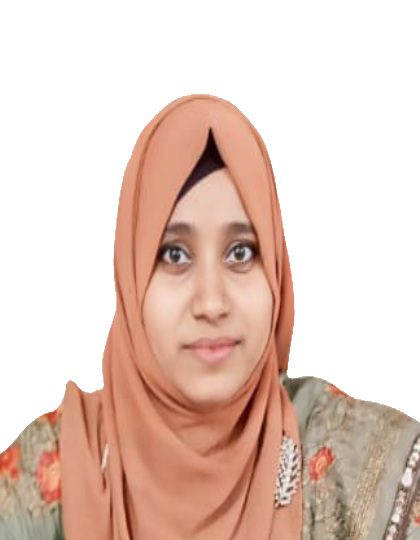
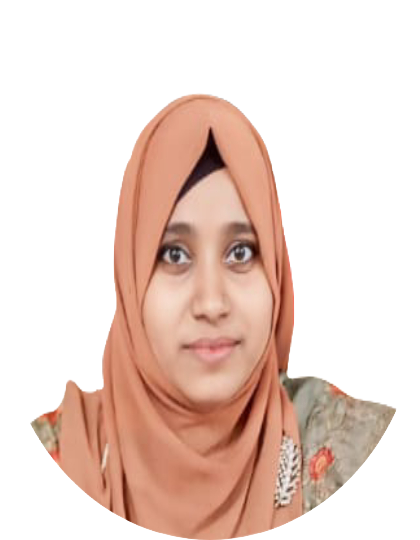
home section some edited

Changed region(s): [[0.5262, 0.7407, 1.0, 1.0], [0.0, 0.7704, 0.4643, 1.0]]

diff --git a/src/app/resume/page.jsx b/src/app/resume/page.jsx
@@ -150,7 +150,7 @@ const about= {
     animate={{opacity:1,
       transition: {delay:2.4, duration:0.4, ease: "easeIn"},
     }}
-    className="min-h-[80vh] flex items-center justify-center py-12 xl:py-16"
+    className="min-h-[80vh] flex items-center justify-center py-12"
     >
       <div className="container mx-auto">
         <Tabs 
@@ -164,23 +164,23 @@ const about= {
           </TabsList>
           <div className="min-h-[70vh] w-full">
                       {/* experience part */}
-            <TabsContent value="experience" className="w-full h-full">
+            <TabsContent value="experience" className="w-full h-full ">
               <div className="flex flex-col gap-[30px] text-center xl:text-left">
-                <h3 className="text-4xl font-bold">{experience.title}</h3>
-                <p className="max-w-[600px] text-gray-600 xl:mx-0">
+                <h3 className="text-4xl font-bold text-[#1C1B22]">{experience.title}</h3>
+                <p className="max-w-[600px] text-[#1C1B22] xl:mx-0 mx-auto">
                   {experience.description}</p>
 
 
-                <ScrollArea className="h-[400px]">
-                  <ul className="grid grid-cols-1 lg:grid-cols-2 gap-[30px] mx-5">
+                <ScrollArea className="h-[400px] ">
+                  <ul className="grid grid-cols-1 lg:grid-cols-2 gap-[30px] ">
                     {experience.items.map((item,index)=>{
                       return (
                       <li key={index}
-                      className="bg-[#232329] h-[184px] py-6 px-10 rounded-xl flex flex-col justify-center items-center lg:items-start gap-1 text-white">
-                        <span className="text-green-600">{item.duration}</span>
+                      className="bg-[#232329] hover:bg-green-600 h-[184px] py-6 px-10 rounded-xl flex flex-col justify-center items-center lg:items-start gap-1 text-white transition-all duration-500">
+                        <span className="text-white">{item.duration}</span>
                         <h3 className="text-xl max-w-[260px] min-h-[60px] text-center lg:text-left">{item.position}</h3>
                         <div className="flex items-center gap-3">
-                          <span className="w-[6px] h-[6px] rounded-full bg-green-600"></span>
+                          <span className="w-[6px] h-[6px] rounded-full bg-green-600]"></span>
                           <p>{item.company}</p>
                         </div>
                       </li>
@@ -194,9 +194,9 @@ const about= {
                       {/* education part */}
               <TabsContent value="education" className="w-full h-full">
                     <div className="flex flex-col gap-[30px] text-center xl:text-left">
-                <h3 className="text-4xl font-bold">{education.title}</h3>
-                <p className="max-w-[600px] text-gray-600 xl:mx-0">
-                  {education.description}</p>
+                <h3 className="text-4xl font-bold text-[#1C1B22]">{education.title}</h3>
+                <p className="max-w-[600px] text-[#1C1B22] xl:mx-0 mx-auto">{education.description}</p>
+                  
 
 
                 <ScrollArea className="h-[400px]">
@@ -204,8 +204,8 @@ const about= {
                     {education.items.map((item,index)=>{
                       return (
                       <li key={index}
-                      className="bg-[#232329] h-[184px] py-6 px-10 rounded-xl flex flex-col justify-center items-center lg:items-start gap-1 text-white">
-                        <span className="text-green-600">{item.duration}</span>
+                      className="bg-[#232329] hover:bg-green-600 h-[184px] py-6 px-10 rounded-xl flex flex-col justify-center items-center lg:items-start gap-1 text-white">
+                        <span className="text-white">{item.duration}</span>
                         <h3 className="text-xl max-w-[260px] min-h-[60px] text-center lg:text-left">{item.degree}</h3>
                         <div className="flex items-center gap-3">
                           <span className="w-[6px] h-[6px] rounded-full bg-green-600"></span>
@@ -223,8 +223,8 @@ const about= {
               <TabsContent value="skills" className="w-full h-full">
               <div className="flex flex-col gap-[30px]">
                <div className="flex flex-col gap-[30px] text-center xl:text-left">
-                 <h3 className="text-4xl font-bold">{skills.title}</h3>
-                <p className="max-w-[600px] text-gray-900 mx-auto xl:mx-0">{skills.description}</p>
+                 <h3 className="text-4xl font-bold text-white">{skills.title}</h3>
+                <p className="max-w-[600px] text-white mx-auto xl:mx-0">{skills.description}</p>
                </div>
               </div>
               <ul className="grid grid-cols-2 sm:grid-cols-1 md:grid-cols-4  gap-4 xl:gap-[30px] mt-10">
@@ -233,8 +233,8 @@ const about= {
                     <li key={index}>
                       <TooltipProvider delayDuration={100}>
                         <Tooltip>
-                          <TooltipTrigger className="w-full h-[150px] bg-[#232329] rounded-xl flex justify-center items-center group">
-                            <div className="text-5xl text-white group-hover:text-green-600 transition-all duration-300">
+                          <TooltipTrigger className="w-full h-[150px] bg-[#232329] hover:bg-green-600 rounded-xl flex justify-center items-center group transition-all duration-500">
+                            <div className="text-5xl text-white transition-all duration-500">
                               {item.icon}
                             </div>
                           </TooltipTrigger>

diff --git a/src/components/Photo.jsx b/src/components/Photo.jsx
@@ -4,60 +4,65 @@ import { motion } from "motion/react"
 
 const Photo = () => {
   return (
-    <div className="w-full h-full relative overflow-x-hidden">
-      {/* image */}
+    <div className="w-full h-full relative items-center justify-center">
       <motion.div 
-      initial={{opacity: 0}}
-      animate= {{
+      initial={{opacity:0}}
+      animate={{
         opacity: 1,
-        transition: { delay: 2, duration: 0.4, ease:"easeIn"},
+        transition: {delay:2, duration: 0.4, ease: "easeIn"},
       }}
       >
+        {/* Image */}
         <motion.div
-       
-      initial={{opacity: 0}}
-      animate= {{
+        initial={{opacity:0}}
+        animate={{
         opacity: 1,
-        transition: { delay: 2.4, duration: 0.4, ease:"easeInOut"}
+        transition: {delay:2.4, duration: 0.4, ease: "easeInOut"},
       }}
-      
-         className="w-[298px] h-[298px] xl:w-[400px] xl:h-[400px] absolute">
-          <Image src="/aklima.png" 
-          alt="myPic" 
-          priority quality={100}
-           fill className="object-contain"/>
-        </motion.div>
-        <motion.svg className= "w-[300px] xl:w-[400px] h-[300px] xl:h-[400px]"
-        fill="transparent"
-        viewBox="0 0 406 406"
-        xmlns="https://www.w3.org/2000/svg">
-          <motion.circle
-          cx="240"
-          cy="240"
-          r="250"
-          stroke="#00ff99"
-          strokeWidth="4"
-          strokeLinecap="round"
-          strokeLinejoin="round"
-          initial={{strokeDasharray : "24 10 0 0"}}
-          animate = {{
-            strokeDasharray: ["15 120 25 25", "16 25,92 72", "4 250 22 22"],
-            rotate: [120, 360],
-          }}
-          transition={{
-            duration: 20,
-            repeat: Infinity,
-            repeatType: "reverse"
-          }}
+        className="w-[298px] h-[298px] mix-blend-lighten absolute">
+          <Image 
+          src="/aklima.png"
+          priority
+          quality={100}
+          fill
+          alt=""
+          className="object-contain"
           />
+        </motion.div>
 
-        
+        {/* circle */}
+        <motion.svg 
+        className="w-[300px] h-[300px] "
+        fill="transparent"
+        viewBox="0 0 506 506"
+        xmlns="http://www.w3.org/200/svg"
+        > 
+        <motion.circle 
+        cx= "253"
+        cy="253"
+        r= "250"
+        stroke= "#C5775B"
+        strokeWidth="8"
+        strokeLinecap="round"
+        strokeLinejoin="round"
+        initial={{ strokeDasharray: "24 10 0 0" }}
+        animate={{
+          strokeDasharray: ["15 120 25 25", "16 25 92 72","4 250 22 22"],
+          rotate: [120, 360],
+        }}
+        transition={{
+          duration: 20,
+          repeat: Infinity,
+          repeatType: "reverse"
+
+        }}
+        />
+
+       
+
         </motion.svg>
-                                                                                                                                                
 
       </motion.div>
-
-     
     </div>
   )
 }

diff --git a/src/app/page.js b/src/app/page.js
@@ -13,7 +13,7 @@ export default function Home() {
       
                             {/* text */}
 
-        <div className="text-center lg:text-left order-2 xl:order-none">
+        <div className="text-center xl:text-left order-2 xl:order-none">
         
           <h1 className="text-3xl">
             Hello I'm  <br /> <span className="text-green-600"> Aklima Akter</span>
@@ -26,12 +26,12 @@ export default function Home() {
         <div className="flex flex-col lg:flex-row items-center gap-8">
            <Button variant="outline"
          size="lg"
-         className= "uppercase flex items-center gap-2">
-          <span >Download CV</span>
+         className= "uppercase flex items-center gap-2 bg-transparent outline text-green-800  outline-green-800 hover:outline-green-500 hover:text-green-600 transition-all duration-500">
+          <span className="">Download CV</span>
           <FiDownload className="text-xl"/>
          </Button>
          <div className="mb-8 lg:mb-0"> 
-          <Social containerStyles= "flex gap-6" iconStyles="w-9 h-9 border border-green-600 rounded-full flex justify-center items-center text-green-600 text-base hover:bg-red-500 hover:text-black hover:transition-all duration-500" />
+          <Social containerStyles= "flex gap-6" iconStyles="w-9 h-9 border border-green-600 rounded-full flex justify-center items-center text-green-800 text-base hover:text-green-600 hover:transition-all duration-500" />
          </div>
     </div>
         

diff --git a/src/app/services/page.jsx b/src/app/services/page.jsx
@@ -50,13 +50,13 @@ const page = () => {
                       <div className="text-5xl font-extrabold text-outline text-transparent group-hover:text-outline-hover transition-all duration-500">{item.num}</div>
                        
                       <Link href={item.href}
-                      className="w-[50px] h-[50px] rounded-full bg-gray-700  group-hover:bg-green-600 transition-all duration-500 flex justify-center items-center text-white hover:-rotate-45">
+                      className="w-[50px] h-[50px] rounded-full text-[#1C1B22] group-hover:bg-green-600 group-hover:text-white transition-all duration-500 flex justify-center items-center hover:-rotate-45">
                          <BsArrowDownRight/>
                       </Link>
                     </div>
-                    <h2 className="text-[42px] font-bold leading-none text-gray-700 group-hover:text-green-600 transition-all duration-500">{item.title}</h2>
-                    <p className="text-gray-700">{item.Description}</p>
-                    <div className="border-b border-gray-700 w-full"></div>
+                    <h2 className="text-[42px] font-bold leading-none text-[#1C1B22] group-hover:text-green-600 transition-all duration-500">{item.title}</h2>
+                    <p className="text-[#1C1B22]">{item.Description}</p>
+                    <div className="border-b text-[#1C1B22] w-full"></div>
                   </div>
                 )
               })

diff --git a/src/app/work/page.jsx b/src/app/work/page.jsx
@@ -64,7 +64,7 @@ const Work = () => {
     animate={{opacity: 1,
       transition: {delay: 2.4, duration: 0.4, ease:"easeIn"}
     }}
-    className="min-h-[80vh] flex flex-col justify-center py-12 mx-5 ">
+    className="min-h-[80vh] flex flex-col justify-center py-12 ">
       <div className="container mx-auto">
         <div className="flex flex-col xl:flex-row xl:gap-[30px]">
            <div className="w-full xl:w-[50%] xl:h-[460px] flex flex-col xl:justify-between order-2 xl:order-none">
@@ -73,9 +73,9 @@ const Work = () => {
                 {project.num}
               </div>
               {/* project-category */}
-              <h2 className="text-[32px] font-bold leading-none text-green-600 group-hover:text-gray-600  transition-all duration-500 capitalize">{project.category} project</h2>
+              <h2 className="text-[32px] font-bold leading-none text-green-600 group-hover:text-[#1C1B22] transition-all duration-500 capitalize">{project.category} project</h2>
                 {/* project-description */}
-                <p className="text-gray-600">{project.description}</p>
+                <p className="text-[#1C1B22]">{project.description}</p>
                 {/* stack */}
                 <ul className="flex gap-4">
                   {

diff --git a/src/components/Nav.jsx b/src/components/Nav.jsx
@@ -33,7 +33,7 @@ const Nav = () => {
     <nav className="flex gap-8">
         {links.map((link,index)=>{
             return(
-                <Link href={link.path} key={index} className={`${link.path === pathname && "text-[#00ff99] border-b-2 border-[#00ff99] capitalize font-medium hover:text-[#00ff99] transition-all"}`}> {link.name}
+                <Link href={link.path} key={index} className={`${link.path === pathname && "text-[#ff7f51] border-b-2 border-[#ff7f51] capitalize font-medium hover:text-[#00ff99] transition-all"}`}> {link.name}
                 </Link>
             );
         })}

diff --git a/src/components/Header.jsx b/src/components/Header.jsx
@@ -6,7 +6,7 @@ import MobileNav from './MobileNav'
 
 const Header = () => {
   return (
-    <header className='py-8 xl:py-12  text-white bg-gray-900'>
+    <header className='py-8 xl:py-12  text-green-400 bg-gray-900'>
         <div className='container mx-auto flex items-center justify-between '>
             <Link href="/">
             <h1 className='text-4xl font-semibold'>Aklima Akter<span className='text-[#00ff99]'>.</span></h1>

diff --git a/src/components/ui/button.jsx b/src/components/ui/button.jsx
@@ -10,7 +10,7 @@ const buttonVariants = cva(
     variants: {
       variant: {
         default:
-         "bg-green-500 text-white hover:bg-green-800",
+         "bg-transparent outline text-green-700  outline-green-700 hover:outline-green-400 hover:text-green-400 transition-all duration-500",
          primary: "bg-green-800 text-white",
          outline: "border border-green-600 bg-green-600 text-white  "
       },

diff --git a/src/components/Stats.jsx b/src/components/Stats.jsx
@@ -22,7 +22,7 @@ const stats = [
 const Stats = () => {
 
   return (
-  <section className="pt-4 pb-12 xl:pt-8 xl:pb-0">
+  <section className="pt-4 pb-12 xl:pt-0 xl:pb-0">
     <div className="container mx-auto">
         <div className="flex flex-wrap gap-6 max-w-[80vw] mx-auto xl:max-w-none">
             {

diff --git a/src/app/globals.css b/src/app/globals.css
@@ -5,7 +5,9 @@
 
 .text-outline {
   -webkit-text-stroke: 1px #364153;
-}
+};
 .text-outline-hover {
   -webkit-text-stroke: 1px #00ff99;
-}
+};
+
+
